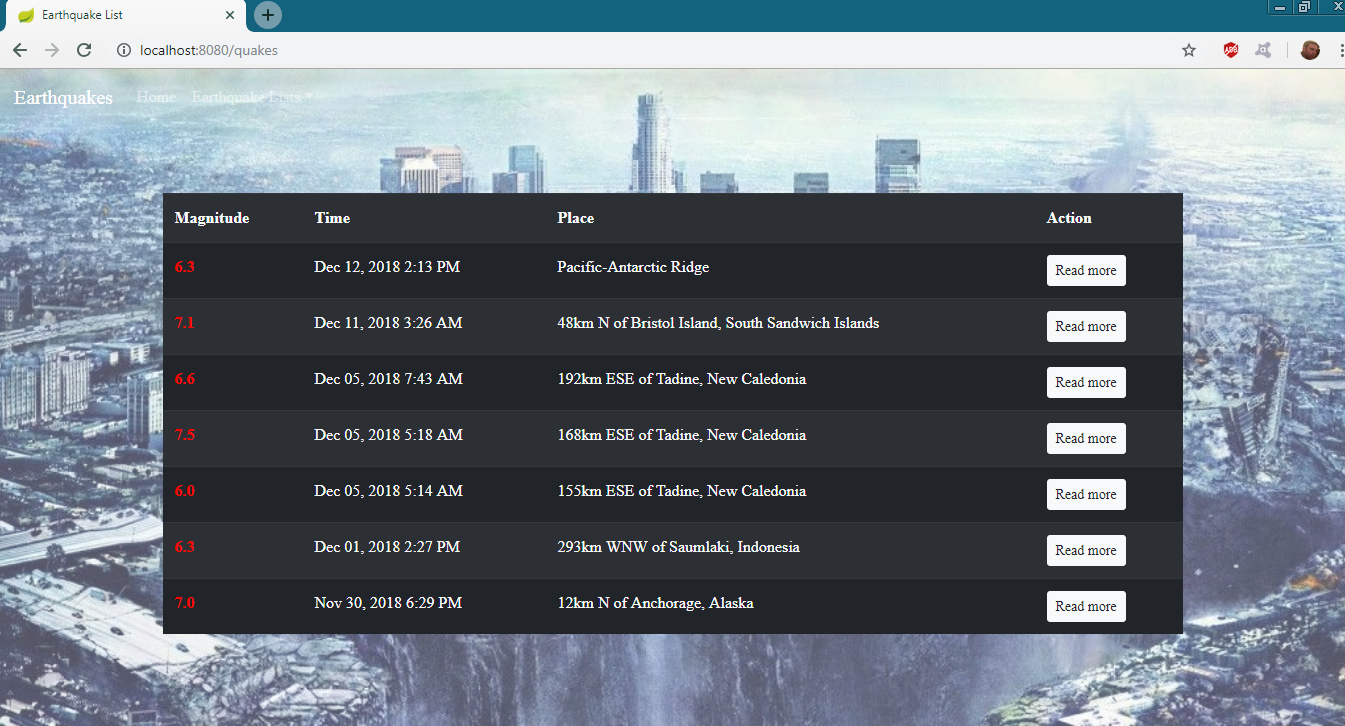
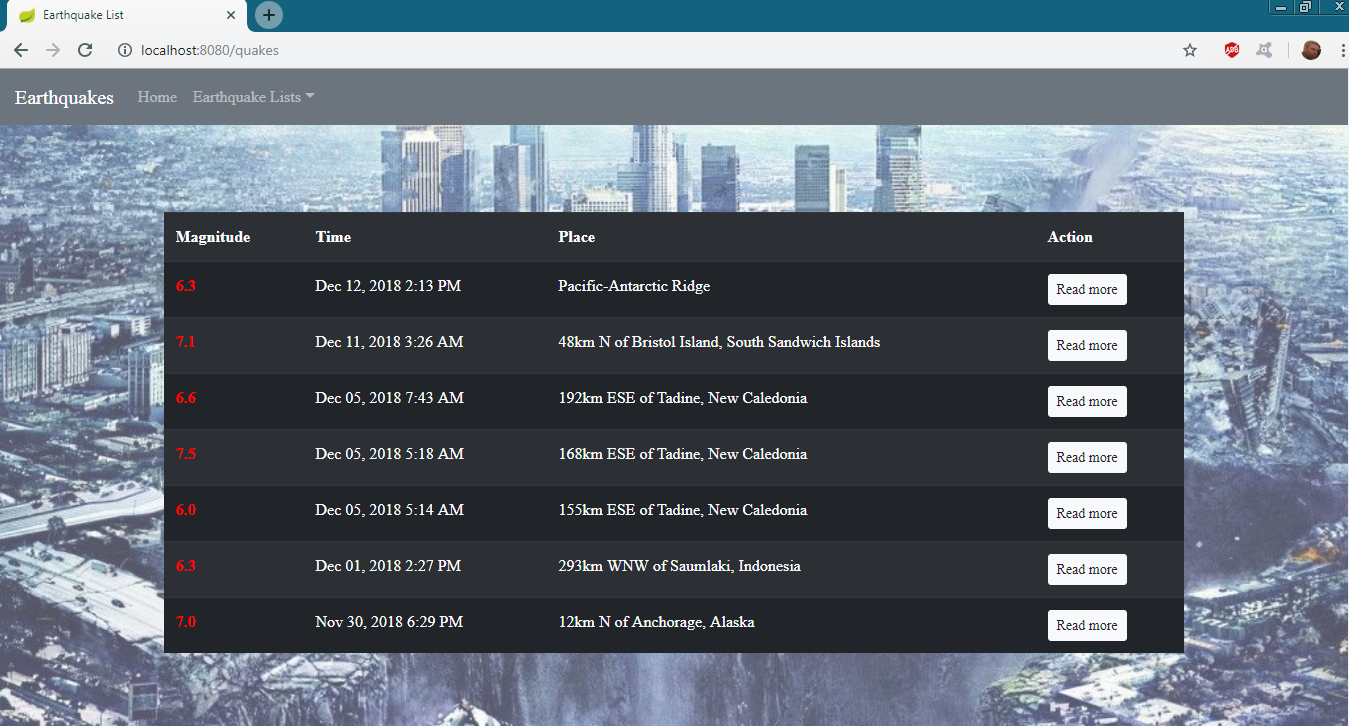
change images

diff --git a/src/main/resources/static/js/quake.js b/src/main/resources/static/js/quake.js
@@ -1,0 +1,36 @@
+$(document).ready(function(){
+    var $window = $(window);
+    $('section[data-type="background"]').each(function(){
+        var $bgobj = $(this); // assigning the object
+
+        $(window).scroll(function() {
+            var yPos = -($window.scrollTop() / $bgobj.data('speed'));
+
+            // Put together our final background position
+            var coords = '50% '+ yPos + 'px';
+
+            // Move the background
+            $bgobj.css({ backgroundPosition: coords });
+        });
+    });
+});
+
+//menu transition js
+$(document).ready(function(){
+    $(window).scroll(function(){
+        var scroll = $(window).scrollTop();
+        if (scroll > 0) {
+            $(".navbar").addClass("navbar-scroll");
+        }
+        else{
+            $(".navbar").removeClass("navbar-scroll");
+        }
+        if (scroll > 200) {
+            $(".navbar").addClass("bg-secondary");
+        }
+
+        else{
+            $(".navbar").removeClass("bg-secondary");
+        }
+    })
+})

diff --git a/src/main/resources/templates/home.html b/src/main/resources/templates/home.html
@@ -10,6 +10,7 @@
     <script src="https://cdnjs.cloudflare.com/ajax/libs/popper.js/1.14.3/umd/popper.min.js"></script>
     <script src="https://maxcdn.bootstrapcdn.com/bootstrap/4.1.3/js/bootstrap.min.js"></script>
     <link rel="stylesheet" th:href="@{/css/quake.css}"/>
+    <script th:src ="@{/js/quake.js}"></script>
 
 </head>
 <body>

diff --git a/src/main/resources/templates/quake_list.html b/src/main/resources/templates/quake_list.html
@@ -10,6 +10,7 @@
     <script src="https://cdnjs.cloudflare.com/ajax/libs/popper.js/1.14.3/umd/popper.min.js"></script>
     <script src="https://maxcdn.bootstrapcdn.com/bootstrap/4.1.3/js/bootstrap.min.js"></script>
     <link rel="stylesheet" th:href="@{/css/quake.css}"/>
+    <script th:src ="@{/js/quake.js}"></script>
 
 </head>
 <body>
